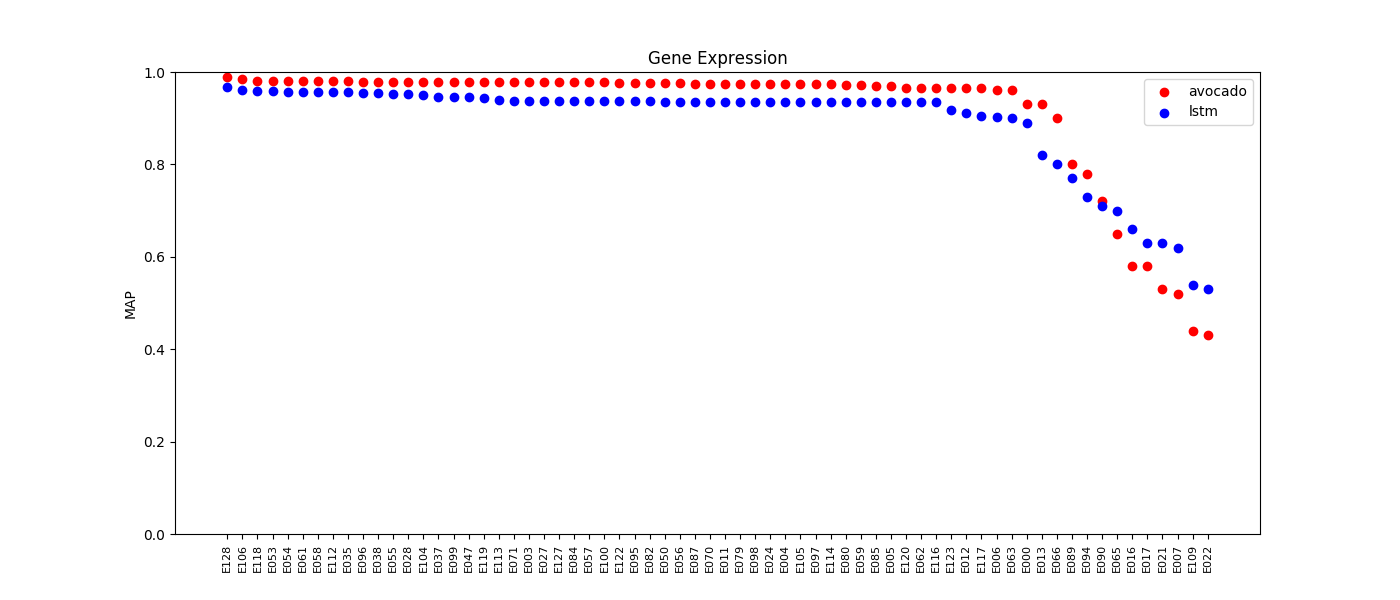
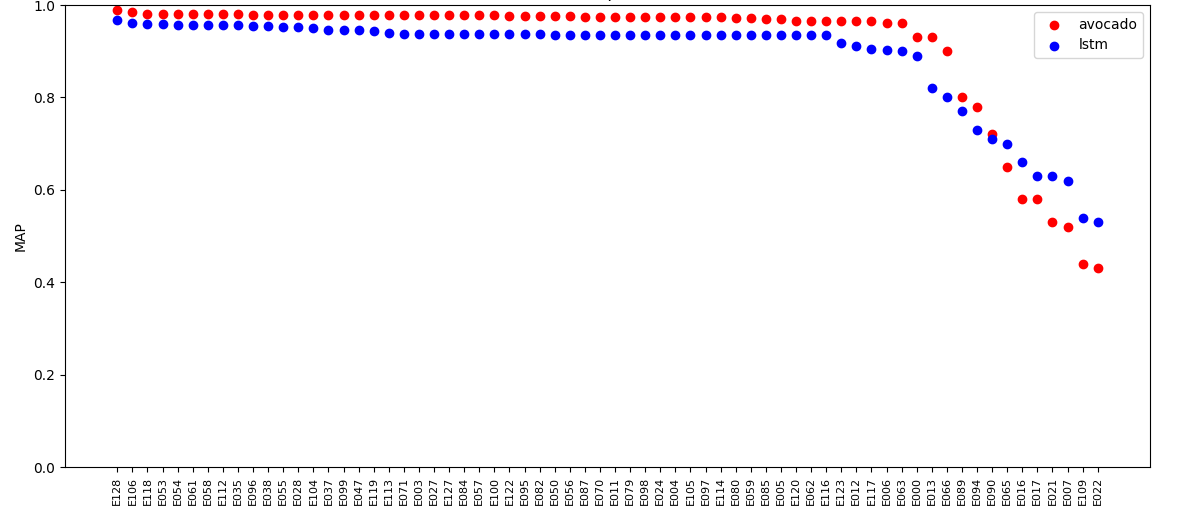
update

diff --git a/src/eda/plot_map.py b/src/eda/plot_map.py
@@ -79,7 +79,9 @@ class PlotMap:
             plt.scatter(key_list_avocado, values[i], label=label, c=color_list[i])
 
         plt.legend(fontsize=12)
-        plt.savefig(path + 'lstm_rna.png')
+        plt.show()
+        print("done")
+        #plt.savefig(path + 'lstm_rna.png')
 
     def plot_pe(self, path, avocado_pe, lstm_pe):
         key_list_avocado, value_list_avocado = self.get_lists(avocado_pe)
